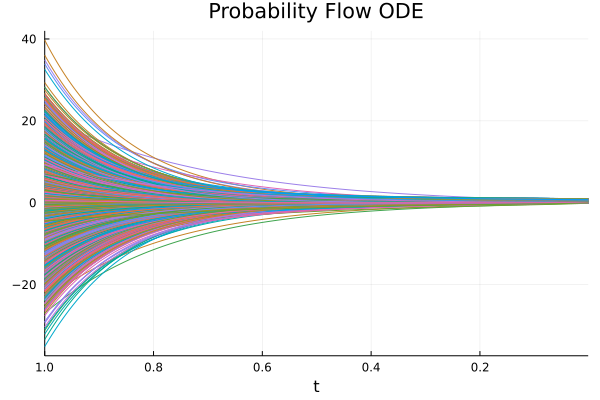
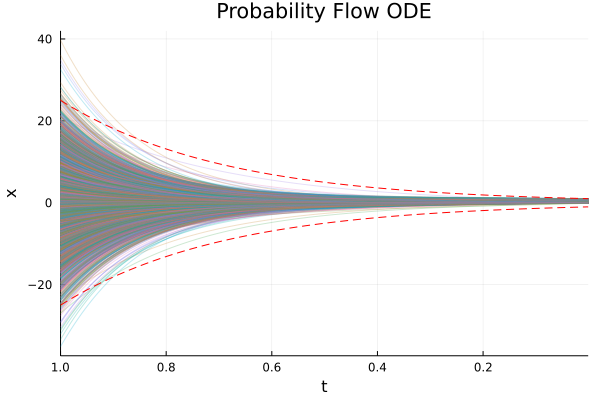
update_plots

diff --git a/vision/diffusion_mnist/README.md b/vision/diffusion_mnist/README.md
@@ -33,18 +33,19 @@ Visualizations are sampled with either the equations used in the [original PyTor
 | ----------- | ----------- |
 | <center> ![pc](../diffusion_mnist/docs/diff_eq_em_images.jpeg) </center>| <center> ![pc](../diffusion_mnist/docs/diff_eq_ode_images.jpeg) </center>|
 
-And since the `DifferentialEquations.jl`'s `solve()` returns the entire sample path, it is easy to visualize the sampling process as an `animation`:  
+And since the `DifferentialEquations.jl`'s `solve()` returns the entire sample path, it is easy to visualize the reverse-time SDE sampling process as an `animation`:  
 
 
 | <center> Euler-Maruyama </center>| <center> Probability Flow ODE </center>|
 | ----------- | ----------- |
 | <center> ![Alt Text](../diffusion_mnist/docs/diff_eq_em.gif) </center>|<center> ![Alt Text](../diffusion_mnist/docs/diff_eq_ode.gif) </center>|
 
-And finally, we can visualize the sample paths as a function of `t ∈ [1, ϵ]`. As noted by the authors, the Probability Flow ODE captures the same
+And finally, we can visualize `𝙭` as a function of `t ∈ [1, ϵ]`. As noted by the authors, the Probability Flow ODE captures the same
 marginal probability density 𝒫ₜ(𝙭) as it's stochastic counterpart.
 | | |
 | ----------- | ----------- |
 | <center> ![pc](../diffusion_mnist/docs/diff_eq_em_plot.png) </center>| <center> ![pc](../diffusion_mnist/docs/diff_eq_ode_plot.png) </center>|
+Shown as reference are the lines `x(t) = ± σᵗ`
 
 ## References
 
